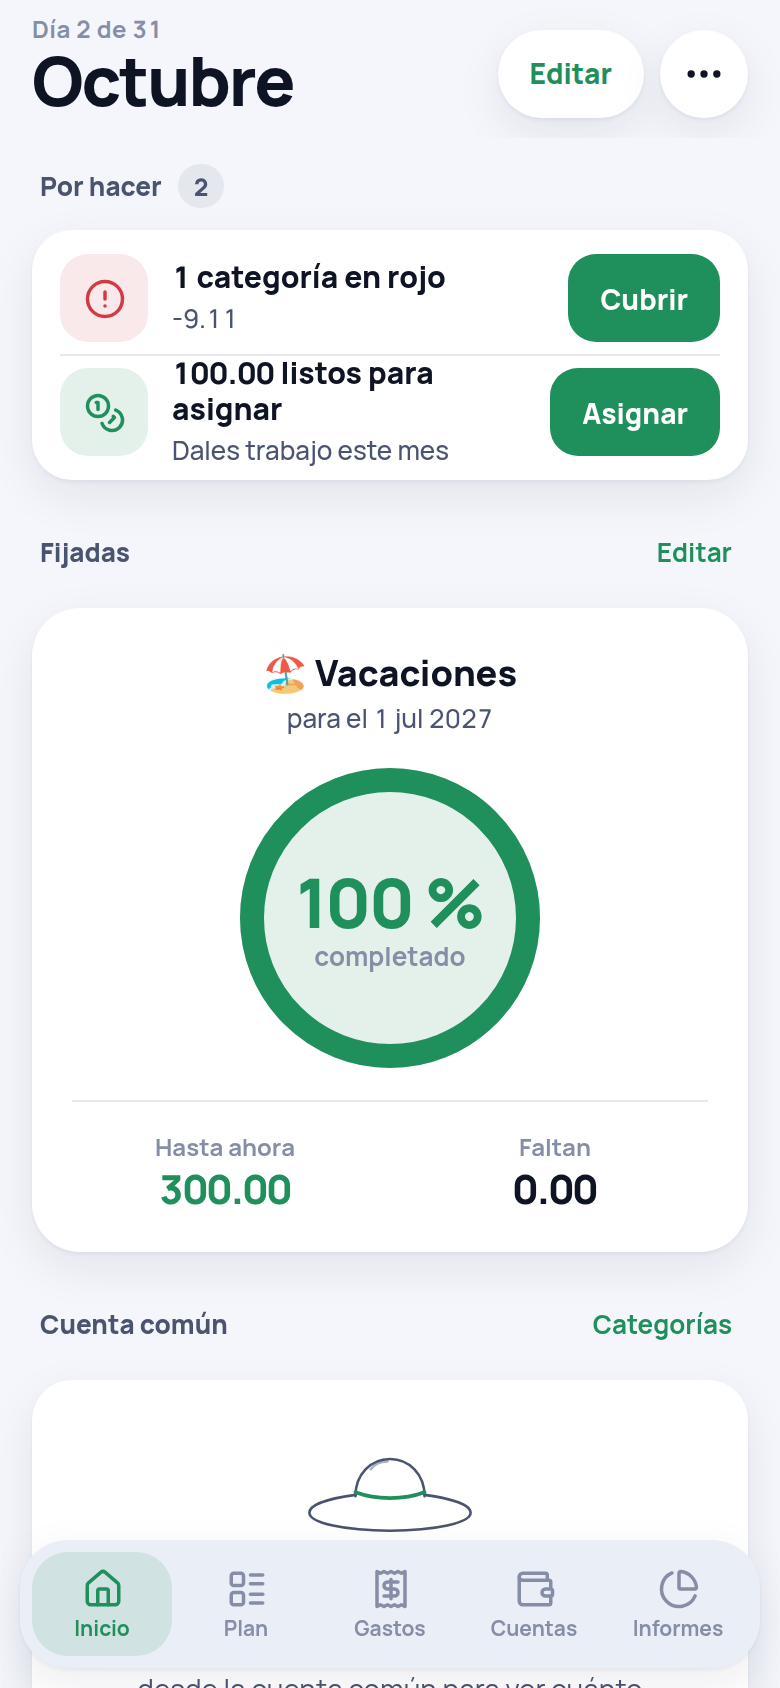
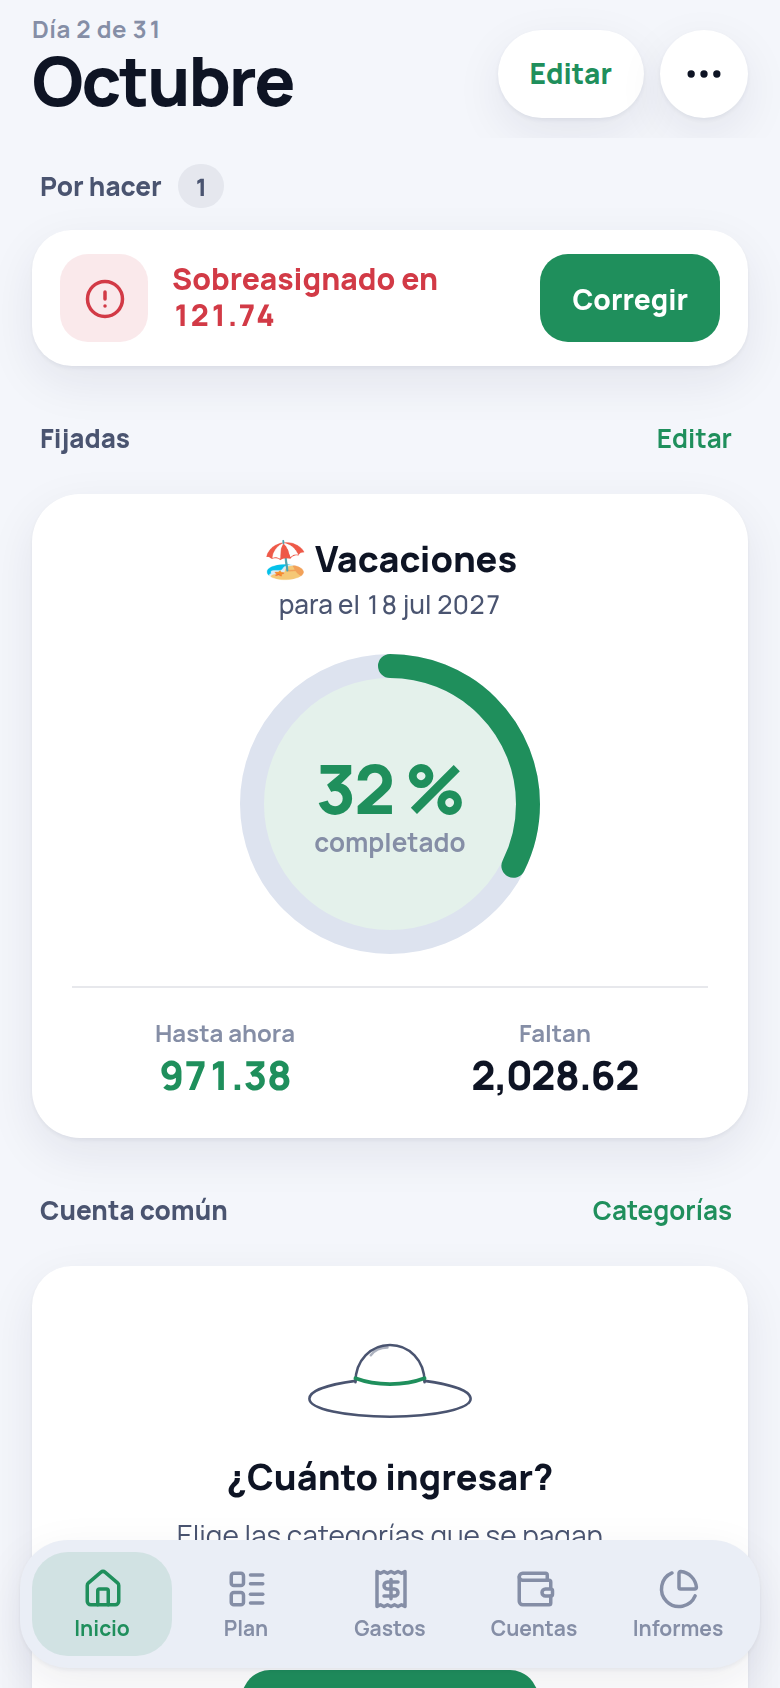
Fijadas: con meta con fecha el avance es saldo / total
Si la categoría tiene una plantilla "by" (con o sin repetición anual),
el porcentaje, "Hasta ahora" y "Faltan" se miden con el saldo contra el
importe total y se muestra la fecha (ej. 923,08 de 3.000 = 31 %). Las
plantillas mensuales siguen con asignado / objetivo del mes. Tests de
ambos casos y captura fijadas-1 actualizada.

Claude-Session: https://claude.ai/code/session_01JMkzZpFb7SLxnK3Jt5L6mH

diff --git a/packages/desktop-client/src/components/mobile/inicio/widgets/Fijadas.tsx b/packages/desktop-client/src/components/mobile/inicio/widgets/Fijadas.tsx
@@ -6,19 +6,20 @@ import { Text } from '@actual-app/components/text';
 import { TextOneLine } from '@actual-app/components/text-one-line';
 import { View } from '@actual-app/components/view';
 import * as monthUtils from '@actual-app/core/shared/months';
+import { q } from '@actual-app/core/shared/query';
 import { groupById } from '@actual-app/core/shared/util';
-import type { CategoryEntity } from '@actual-app/core/types/models';
+import type { CategoryEntity, NoteEntity } from '@actual-app/core/types/models';
 
 import { plantillasDe } from '#components/mobile/anual/useAnual';
-import { objetivoDesdePlantillas } from '#components/mobile/budget/objetivos';
 import type { DatosCategoriaMes } from '#components/mobile/budget/objetivos';
 import { useDatosObjetivos } from '#components/mobile/budget/useDatosObjetivos';
 import {
   avanceFijada,
   iconoDeNombre,
+  metaConFecha,
   porcentajeAvance,
 } from '#components/mobile/inicio/avance';
-import type { Avance } from '#components/mobile/inicio/avance';
+import type { Avance, MetaFecha } from '#components/mobile/inicio/avance';
 import {
   AccionTexto,
   Anillo,
@@ -40,8 +41,8 @@ import { useCategories } from '#hooks/useCategories';
 import { useFormat } from '#hooks/useFormat';
 import { useLocale } from '#hooks/useLocale';
 import { useNavigate } from '#hooks/useNavigate';
-import { useNotes } from '#hooks/useNotes';
 import { usePinnedCategories } from '#hooks/usePinnedCategories';
+import { useQuery } from '#hooks/useQuery';
 
 const SIN_DATOS: DatosCategoriaMes = {
   goal: null,
@@ -77,6 +78,21 @@ export function Fijadas({ tamano, month }: PropsWidget) {
 
   const datos = useDatosObjetivos(month, fijadas);
 
+  // Metas con fecha (plantilla `by …`): se miden sobre el saldo.
+  const { data: notas } = useQuery<NoteEntity>(
+    () => q('notes').select('*'),
+    [],
+  );
+  const metas = useMemo(() => {
+    const notaDe = new Map((notas ?? []).map(n => [n.id, n.note]));
+    return new Map<string, MetaFecha | null>(
+      fijadas.map(c => [
+        c.id,
+        metaConFecha(plantillasDe(c.goal_def), notaDe.get(c.id)),
+      ]),
+    );
+  }, [fijadas, notas]);
+
   const abrir = (id: CategoryEntity['id']) =>
     void navigate(`/categories/${id}?month=${month}`);
 
@@ -108,6 +124,7 @@ export function Fijadas({ tamano, month }: PropsWidget) {
               key={c.id}
               category={c}
               datos={datos.get(c.id) ?? SIN_DATOS}
+              meta={metas.get(c.id)}
               separada={i > 0}
               onPress={() => abrir(c.id)}
             />
@@ -117,6 +134,7 @@ export function Fijadas({ tamano, month }: PropsWidget) {
         <HeroeFijada
           category={fijadas[0]}
           datos={datos.get(fijadas[0].id) ?? SIN_DATOS}
+          meta={metas.get(fijadas[0].id)}
           onPress={() => abrir(fijadas[0].id)}
         />
       ) : (
@@ -134,6 +152,7 @@ export function Fijadas({ tamano, month }: PropsWidget) {
               key={c.id}
               category={c}
               datos={datos.get(c.id) ?? SIN_DATOS}
+              meta={metas.get(c.id)}
               compacta={tamano === 'compacto'}
               mediana={tamano === 'normal' && fijadas.length === 2}
               onPress={() => abrir(c.id)}
@@ -193,19 +212,21 @@ function IconoCategoria({ nombre }: { nombre: string }) {
 function BaldosaFijada({
   category,
   datos,
+  meta,
   compacta,
   mediana = false,
   onPress,
 }: {
   category: CategoryEntity;
   datos: DatosCategoriaMes;
+  meta?: MetaFecha | null;
   compacta: boolean;
   mediana?: boolean;
   onPress: () => void;
 }) {
   const { t } = useTranslation();
   const format = useFormat();
-  const avance = avanceFijada(datos);
+  const avance = avanceFijada(datos, meta);
   const textoAvance = useTextoAvance(avance);
   const { nombre } = iconoDeNombre(category.name);
   const porcentaje = useTextoPorcentaje(avance);
@@ -267,17 +288,19 @@ function BaldosaFijada({
 function FilaFijada({
   category,
   datos,
+  meta,
   separada,
   onPress,
 }: {
   category: CategoryEntity;
   datos: DatosCategoriaMes;
+  meta?: MetaFecha | null;
   separada: boolean;
   onPress: () => void;
 }) {
   const { t } = useTranslation();
   const format = useFormat();
-  const avance = avanceFijada(datos);
+  const avance = avanceFijada(datos, meta);
   const textoAvance = useTextoAvance(avance);
   const { nombre } = iconoDeNombre(category.name);
 
@@ -335,32 +358,26 @@ function FilaFijada({
 function HeroeFijada({
   category,
   datos,
+  meta,
   onPress,
 }: {
   category: CategoryEntity;
   datos: DatosCategoriaMes;
+  meta?: MetaFecha | null;
   onPress: () => void;
 }) {
   const { t } = useTranslation();
   const format = useFormat();
   const locale = useLocale();
-  const avance = avanceFijada(datos);
+  const avance = avanceFijada(datos, meta);
   const textoAvance = useTextoAvance(avance);
   const porcentaje = useTextoPorcentaje(avance);
   const { nombre } = iconoDeNombre(category.name);
-  const nota = useNotes(category.id);
   const { color: colorEstado } = coloresEstado[avance.estado];
 
-  const fecha = useMemo(() => {
-    const plantillas = plantillasDe(category.goal_def);
-    if (plantillas.length === 0) {
-      return null;
-    }
-    const objetivo = objetivoDesdePlantillas(plantillas, nota);
-    return objetivo && objetivo !== 'otro' && 'fecha' in objetivo
-      ? monthUtils.format(objetivo.fecha, 'd MMM yyyy', locale)
-      : null;
-  }, [category.goal_def, nota, locale]);
+  const fecha = meta
+    ? monthUtils.format(meta.fecha, 'd MMM yyyy', locale)
+    : null;
 
   const conObjetivo = avance.modo === 'objetivo';
   const cifras = conObjetivo
@@ -368,7 +385,7 @@ function HeroeFijada({
         { etiqueta: t('So far'), valor: avance.hecho, color: colorEstado },
         {
           etiqueta: t('To go'),
-          valor: Math.max(0, avance.total - avance.hecho),
+          valor: avance.falta,
           color: color.fg,
         },
       ]

diff --git a/packages/desktop-client/src/components/mobile/inicio/avance.ts b/packages/desktop-client/src/components/mobile/inicio/avance.ts
@@ -1,6 +1,10 @@
 import type { IntegerAmount } from '@actual-app/core/shared/util';
+import type { Template } from '@actual-app/core/types/models/templates';
 
-import { faltante } from '#components/mobile/budget/objetivos';
+import {
+  faltante,
+  objetivoDesdePlantillas,
+} from '#components/mobile/budget/objetivos';
 import type { DatosCategoriaMes } from '#components/mobile/budget/objetivos';
 
 /**
@@ -50,9 +54,50 @@ export function estadoDeCategoria(datos: DatosCategoriaMes): EstadoAvance {
   return 'neutro';
 }
 
-export function avanceFijada(datos: DatosCategoriaMes): Avance {
+/**
+ * Meta con fecha («Vacaciones 3.000 € para el 18/07/2027»): plantilla `by …`
+ * (con o sin `repeat every …`). Se mide sobre el saldo, no sobre lo asignado
+ * este mes. Las plantillas mensuales o semanales no tienen meta con fecha.
+ */
+export type MetaFecha = { importe: IntegerAmount; fecha: string };
+
+export function metaConFecha(
+  plantillas: readonly Template[],
+  nota: string | null | undefined,
+): MetaFecha | null {
+  if (plantillas.length === 0) {
+    return null;
+  }
+  const objetivo = objetivoDesdePlantillas(plantillas, nota);
+  if (
+    objetivo &&
+    objetivo !== 'otro' &&
+    'fecha' in objetivo &&
+    objetivo.importe > 0
+  ) {
+    return { importe: objetivo.importe, fecha: objetivo.fecha };
+  }
+  return null;
+}
+
+export function avanceFijada(
+  datos: DatosCategoriaMes,
+  meta?: MetaFecha | null,
+): Avance {
   const estado = estadoDeCategoria(datos);
   const falta = faltante(datos);
+
+  if (meta) {
+    const hecho = Math.max(0, datos.balance);
+    return {
+      modo: 'objetivo',
+      fraccion: recortar(hecho / meta.importe),
+      hecho,
+      total: meta.importe,
+      falta: Math.max(0, meta.importe - hecho),
+      estado,
+    };
+  }
 
   if (datos.goal != null && datos.goal > 0) {
     const hecho = Math.max(0, datos.longGoal ? datos.balance : datos.budgeted);

diff --git a/packages/desktop-client/src/components/mobile/inicio/avance.test.ts b/packages/desktop-client/src/components/mobile/inicio/avance.test.ts
@@ -4,6 +4,7 @@ import {
   avanceFijada,
   estadoDeCategoria,
   iconoDeNombre,
+  metaConFecha,
   porcentajeAvance,
 } from './avance';
 
@@ -135,5 +136,58 @@ describe('porcentaje de las fijadas', () => {
       ),
     ).toBe(25);
     expect(porcentajeAvance(avanceFijada(datos({})))).toBe(0);
+  });
+});
+
+describe('meta con fecha (plantilla by)', () => {
+  const by = [
+    { type: 'by', amount: 3000, month: '2027-07', directive: 'template' },
+  ] as never;
+
+  it('se mide el saldo contra el total: 923,08 de 3.000 = 31 %', () => {
+    const meta = metaConFecha(by, '#objetivo fecha 2027-07-18');
+    expect(meta).toEqual({ importe: 3000_00, fecha: '2027-07-18' });
+    const a = avanceFijada(
+      // El objetivo del mes (cuota) y lo asignado no cuentan.
+      datos({ goal: 300_00, budgeted: 300_00, balance: 923_08 }),
+      meta,
+    );
+    expect(a).toMatchObject({
+      modo: 'objetivo',
+      hecho: 923_08,
+      total: 3000_00,
+      falta: 2076_92,
+    });
+    expect(porcentajeAvance(a)).toBe(31);
+  });
+
+  it('con repetición anual también tiene meta; tope 100 %', () => {
+    const anual = [
+      {
+        type: 'by',
+        amount: 100,
+        month: '2027-07',
+        annual: true,
+        repeat: 1,
+        directive: 'template',
+      },
+    ] as never;
+    const meta = metaConFecha(anual, null);
+    expect(meta?.fecha).toBe('2027-07-01');
+    expect(
+      porcentajeAvance(avanceFijada(datos({ balance: 250_00 }), meta)),
+    ).toBe(100);
+  });
+
+  it('plantilla mensual: sin meta, vale asignado / objetivo del mes', () => {
+    const mensual = [
+      { type: 'simple', monthly: 100, directive: 'template' },
+    ] as never;
+    expect(metaConFecha(mensual, null)).toBeNull();
+    expect(
+      porcentajeAvance(
+        avanceFijada(datos({ goal: 100_00, budgeted: 25_00, balance: 900_00 })),
+      ),
+    ).toBe(25);
   });
 });

diff --git a/packages/desktop-client/src/components/mobile/inicio/InicioPage.test.tsx b/packages/desktop-client/src/components/mobile/inicio/InicioPage.test.tsx
@@ -274,7 +274,7 @@ describe('InicioPage', () => {
             goal_def: JSON.stringify([
               {
                 type: 'by',
-                amount: 400,
+                amount: 1000,
                 month: '2027-07',
                 directive: 'template',
               },
@@ -290,13 +290,14 @@ describe('InicioPage', () => {
 
     const heroe = await screen.findByTestId('fijada-heroe');
     expect(within(heroe).getByTestId('fijada-porcentaje')).toHaveTextContent(
-      '25%',
+      '40%',
     );
     expect(within(heroe).getByText('completed')).toBeInTheDocument();
     expect(within(heroe).getByText('So far')).toBeInTheDocument();
-    expect(within(heroe).getByText('100.00')).toBeInTheDocument();
+    // Meta con fecha: se mide el saldo (401.74) contra el total (1000).
+    expect(within(heroe).getByText('401.74')).toBeInTheDocument();
     expect(within(heroe).getByText('To go')).toBeInTheDocument();
-    expect(within(heroe).getByText('300.00')).toBeInTheDocument();
+    expect(within(heroe).getByText('598.26')).toBeInTheDocument();
     expect(within(heroe).getByTestId('fijada-fecha')).toHaveTextContent(
       'by 1 Jul 2027',
     );
